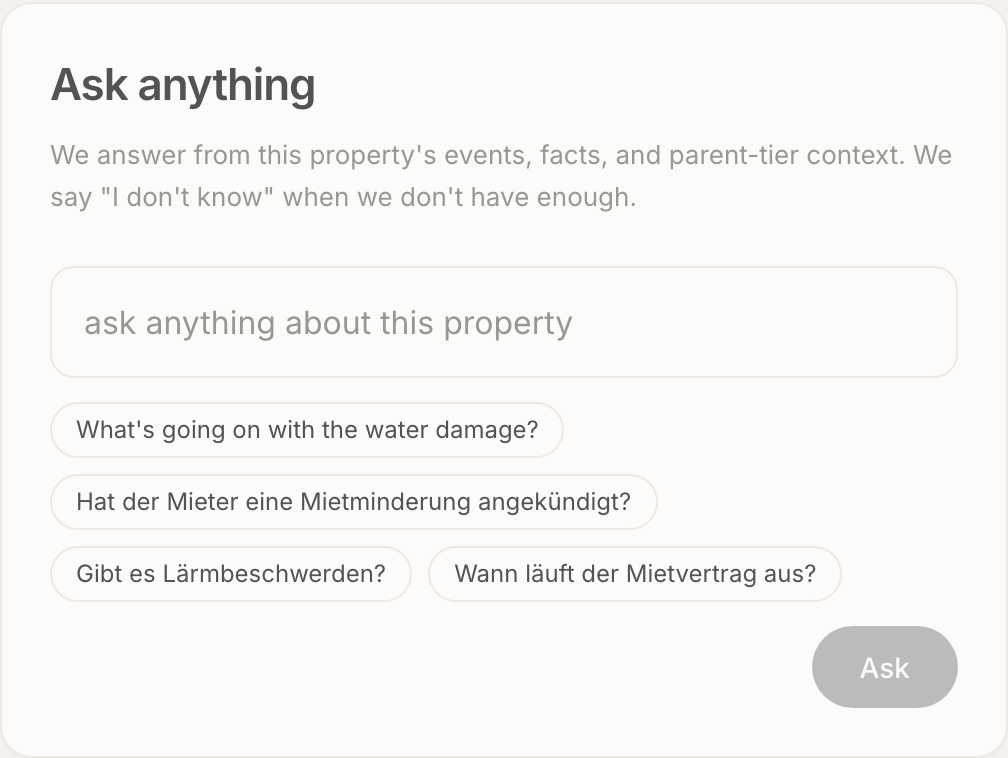
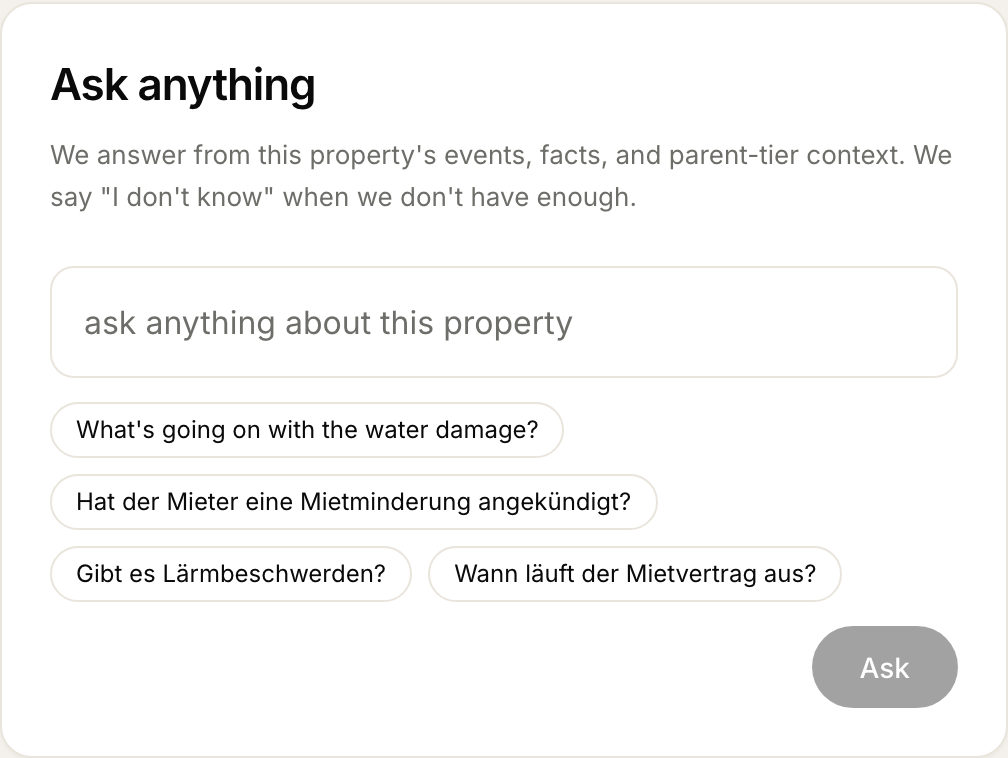
Retake README screenshots

diff --git a/README.md b/README.md
@@ -17,8 +17,8 @@ Built solo in a hackathon window, then cleaned up and hardened.
 | **Approval inbox** | **Ask** |
 | ![Approval inbox](docs/img/approval-inbox.png) | ![Ask](docs/img/ask-panel.png) |
 
-The `docker compose` stack with no API key, after five synthetic tenant emails
-were sent to WE 29 through `POST /debug/trigger_event` (see Quickstart).
+A fresh `docker compose up` with no API key: the synthetic sample data as it
+loads on first start, nothing added by hand.
 
 ## How it works
 
